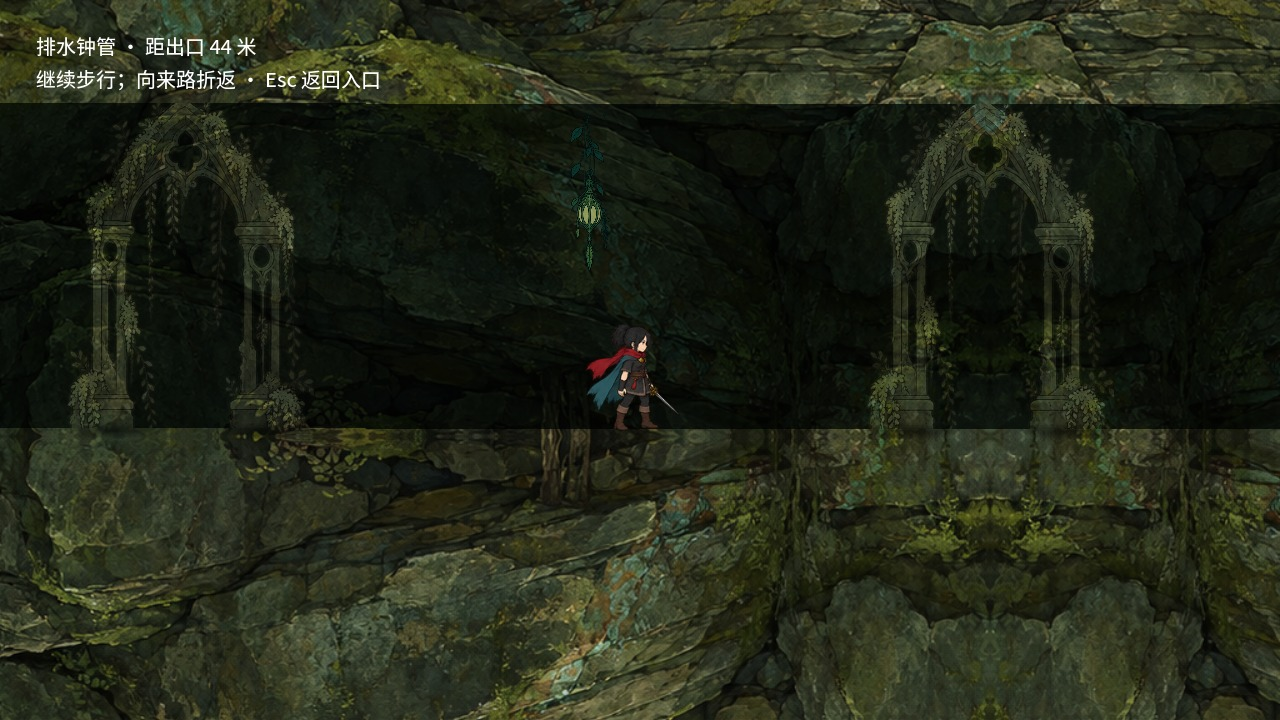
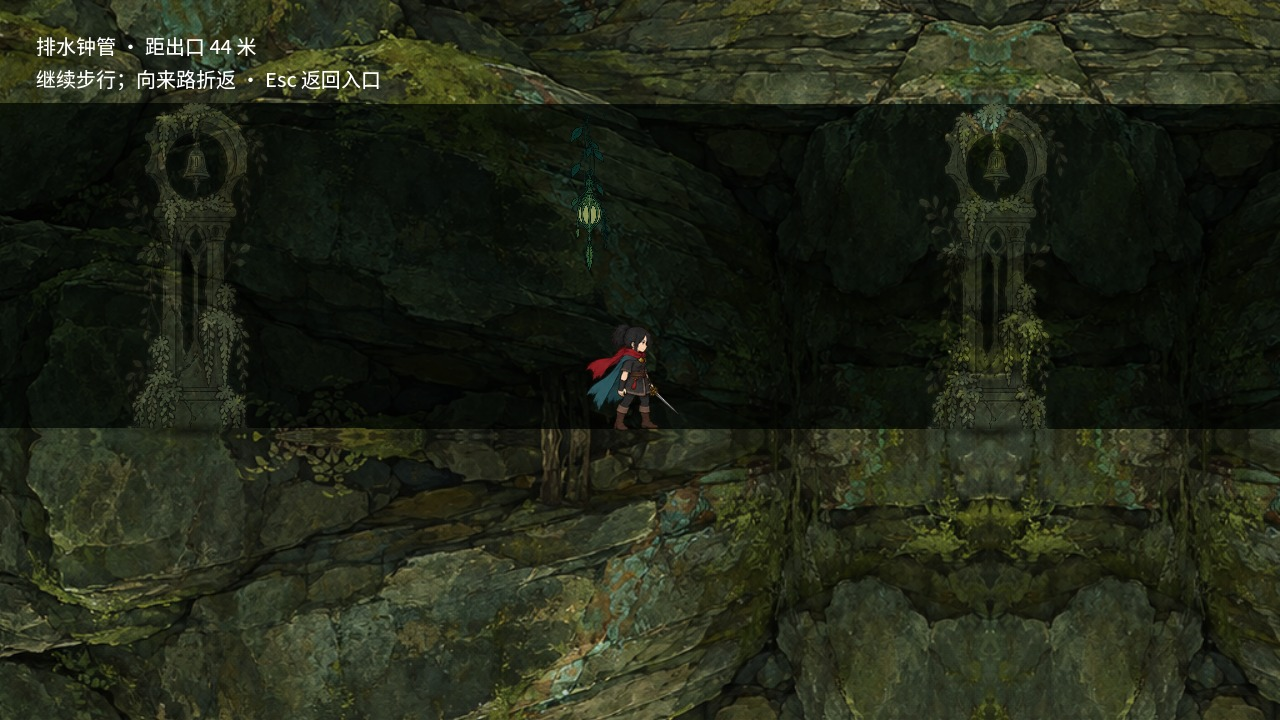
fix(world): distinguish passage columns from terminal exits

Changed region(s): [[0.6562, 0.1222, 0.875, 0.6111], [0.0312, 0.1222, 0.25, 0.6111]]

diff --git a/docs/report/20261012_first_walkable_passage.md b/docs/report/20261012_first_walkable_passage.md
@@ -51,3 +51,10 @@
 完整拱架贴图原本蓝青色、轮廓反差与岩壁不一致，且柱脚绘制在地板前方，仍显得像浮贴。本次新增仅用于管道支撑架的passage_support着色器：保留原素材alpha和雕刻明暗，将RGB去饱和并结合与岩壁相同的苔岩采样，调整为苔褐色调。构件层级移至背墙和岩层之间，地板/顶板真实遮住柱脚/拱冠；人物位于其前方。两侧柱脚增加柔和接触阴影，吊灯降低蓝青色与亮度反差。所有拱架使用同一材质，不随机换色。
 
 首轮调色偏暗，随后只调整支撑材质亮度并重新取得三处GL画面。最终截图已目视复核；人物和构件显隐像素对照仍全部通过，日志无ERROR或新增退出引用警告。通道52项零失败，覆盖实际输入往返、保存隔离、取消恢复；本次没有改动路面碰撞。详细结果记录在verification.json的layer_revision字段。素材基线4ac48fc的CI第71次已成功，本次提交的CI另行报告。
+
+
+## 2026-10-13 门洞语义修正
+
+重复拱架虽为装饰，却具有可进入的门洞轮廓，容易误认成中途出口。本次替换为苔钟庭图集中完整实心石柱(96,652,249,566)，仍统一284像素高，沿用中景层级、苔岩调色、地板遮挡；接触阴影改到单柱底部。吊灯和实际碰撞规则沿用。两端实际行进终点增加区域名与左右方向标识，管道中段没有出口文字，背墙不承担入口交互。
+
+Godot 4.6.1实际输入往返52项零失败。GL取样增加距离目标40像素处，四处全部通过人物与装饰显隐对照；新增出口文字显隐对照，三处中段贡献0像素，终点贡献897个采样像素。四张实机截图已复核，日志无ERROR或新增退出引用警告。图形夹具是定点展示，不计自然流程通关；W00c仍部分完成，终点沿用跨帧整区装载。详细摘要记录在verification.json的semantic_revision字段，最终提交CI另行报告。
